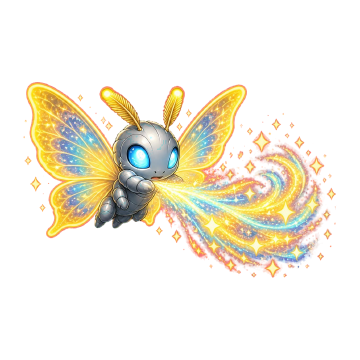
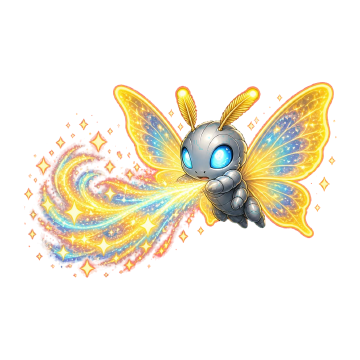
fix(assets): flip monster attack art toward hero

diff --git a/index.html b/index.html
@@ -1782,18 +1782,19 @@ function bindMonImg(img){
    already face image-right, so they are not mirrored.
    Mirror a monster frame only when the source art faces right. One scaleX(-1)
    in battle only — never in the dex, and never a second flip.
-   Attack, faces right: lavaover, thundwolf, mtngod, manflower, illusdemon, seaking, sandwyrm, starlord.
-   Attack, already left: heidragon, holyturt, deathscorp, ninjacat, steeltiran, icetiran, phoenix, nightmare, galmoth, flamecrab.
-   Idle, faces right: deathscorp, thundwolf, mtngod, manflower, illusdemon, seaking, sandwyrm, starlord.
-   Idle, already left: heidragon, lavaover, holyturt, ninjacat, steeltiran, icetiran, phoenix, nightmare, galmoth, flamecrab. */
+   Attack, faces right: lavaover, thundwolf, mtngod, starlord, deathscorp, flamecrab, galmoth, holyturt, icetiran, nightmare, ninjacat.
+   Attack, already left: manflower, illusdemon, seaking, sandwyrm.
+   Idle, faces right: deathscorp, thundwolf, mtngod, manflower, seaking, sandwyrm, starlord.
+   Idle, already left: heidragon, lavaover, holyturt, ninjacat, steeltiran, icetiran, phoenix, nightmare, galmoth, flamecrab, illusdemon. */
 const ATTACK_MIRROR = {
-  lavaover:1, thundwolf:1, mtngod:1, manflower:1,
-  illusdemon:1, seaking:1, sandwyrm:1, starlord:1
+  lavaover:1, thundwolf:1, mtngod:1, starlord:1,
+  deathscorp:1, flamecrab:1, galmoth:1, holyturt:1,
+  icetiran:1, nightmare:1, ninjacat:1
 };
 /* Idle portraits that face image-right. Same rule: one flip in battle, never in the dex. */
 const IDLE_MIRROR = {
   deathscorp:1, thundwolf:1, mtngod:1, manflower:1,
-  illusdemon:1, seaking:1, sandwyrm:1, starlord:1
+  seaking:1, sandwyrm:1, starlord:1
 };
 /* Empty canvas under the attack-frame feet, as a percent of the image. Drops them onto the ground line. */
 const ATTACK_FOOT = {
@@ -2958,10 +2959,10 @@ function runSelfTest(){
   });
   if(MONS.deathscorp.name!=='死神蠍') fails.push('deathscorp name');
   if(MONS.sandwyrm.name!=='黃泉魔龍') fails.push('sandwyrm name');
-  ['heidragon','holyturt','deathscorp','ninjacat','steeltiran','icetiran','phoenix','nightmare','galmoth','flamecrab'].forEach(function(id){ if(ATTACK_MIRROR[id]) fails.push('double flip atk '+id); });
-  ['lavaover','thundwolf','mtngod','manflower','illusdemon','seaking','sandwyrm','starlord'].forEach(function(id){ if(!ATTACK_MIRROR[id]) fails.push('need mirror atk '+id); });
-  ['heidragon','lavaover','holyturt','ninjacat','steeltiran','icetiran','phoenix','nightmare','galmoth','flamecrab'].forEach(function(id){ if(IDLE_MIRROR[id]) fails.push('double flip idle '+id); });
-  ['deathscorp','thundwolf','mtngod','manflower','illusdemon','seaking','sandwyrm','starlord'].forEach(function(id){ if(!IDLE_MIRROR[id]) fails.push('need mirror idle '+id); });
+  ['heidragon','steeltiran','phoenix'].forEach(function(id){ if(ATTACK_MIRROR[id]) fails.push('double flip atk '+id); });
+  ['lavaover','thundwolf','mtngod','starlord','deathscorp','flamecrab','galmoth','holyturt','icetiran','nightmare','ninjacat'].forEach(function(id){ if(!ATTACK_MIRROR[id]) fails.push('need mirror atk '+id); });
+  ['heidragon','lavaover','holyturt','ninjacat','steeltiran','icetiran','phoenix','nightmare','galmoth','flamecrab','illusdemon'].forEach(function(id){ if(IDLE_MIRROR[id]) fails.push('double flip idle '+id); });
+  ['deathscorp','thundwolf','mtngod','manflower','seaking','sandwyrm','starlord'].forEach(function(id){ if(!IDLE_MIRROR[id]) fails.push('need mirror idle '+id); });
   [1,2,3].forEach(function(star){
     const divs=divisionDivisors(star);
     if(star===1 && divs.join(',')!=='2,5,10') fails.push('star1');
@@ -3010,7 +3011,7 @@ function runSelfTest(){
     const sc=ATTACK_SCALE[id];
     if(!(sc>=1 && sc<=1.65)) fails.push('scale '+id);
   });
-  if(ATTACK_MIRROR.heidragon||ATTACK_MIRROR.phoenix||ATTACK_MIRROR.icetiran||ATTACK_MIRROR.steeltiran||ATTACK_MIRROR.deathscorp) fails.push('double flip');
+  if(ATTACK_MIRROR.heidragon||ATTACK_MIRROR.phoenix||ATTACK_MIRROR.steeltiran) fails.push('double flip');
   if(IDLE_MIRROR.heidragon||IDLE_MIRROR.lavaover||IDLE_MIRROR.phoenix) fails.push('double flip idle');
   const pair=dexPairHTML('heidragon');
   if(/立繪|出招|<figcaption/.test(pair)) fails.push('dex caption');

diff --git a/src/game.js b/src/game.js
@@ -271,13 +271,14 @@ function bindMonImg(img){
    already face image-right, so they are not mirrored.
    Mirror a monster frame only when the source art faces right. One scaleX(-1)
    in battle only — never in the dex, and never a second flip.
-   Attack, faces right: lavaover, thundwolf, mtngod, manflower, illusdemon, seaking, sandwyrm, starlord.
-   Attack, already left: heidragon, holyturt, deathscorp, ninjacat, steeltiran, icetiran, phoenix, nightmare, galmoth, flamecrab.
+   Attack, faces right: lavaover, thundwolf, mtngod, starlord, deathscorp, flamecrab, galmoth, holyturt, icetiran, nightmare, ninjacat.
+   Attack, already left: manflower, illusdemon, seaking, sandwyrm.
    Idle, faces right: deathscorp, thundwolf, mtngod, manflower, seaking, sandwyrm, starlord.
    Idle, already left: heidragon, lavaover, holyturt, ninjacat, steeltiran, icetiran, phoenix, nightmare, galmoth, flamecrab, illusdemon. */
 const ATTACK_MIRROR = {
-  lavaover:1, thundwolf:1, mtngod:1, manflower:1,
-  illusdemon:1, seaking:1, sandwyrm:1, starlord:1
+  lavaover:1, thundwolf:1, mtngod:1, starlord:1,
+  deathscorp:1, flamecrab:1, galmoth:1, holyturt:1,
+  icetiran:1, nightmare:1, ninjacat:1
 };
 /* Idle portraits that face image-right. Same rule: one flip in battle, never in the dex. */
 const IDLE_MIRROR = {
@@ -1447,8 +1448,8 @@ function runSelfTest(){
   });
   if(MONS.deathscorp.name!=='死神蠍') fails.push('deathscorp name');
   if(MONS.sandwyrm.name!=='黃泉魔龍') fails.push('sandwyrm name');
-  ['heidragon','holyturt','deathscorp','ninjacat','steeltiran','icetiran','phoenix','nightmare','galmoth','flamecrab'].forEach(function(id){ if(ATTACK_MIRROR[id]) fails.push('double flip atk '+id); });
-  ['lavaover','thundwolf','mtngod','manflower','illusdemon','seaking','sandwyrm','starlord'].forEach(function(id){ if(!ATTACK_MIRROR[id]) fails.push('need mirror atk '+id); });
+  ['heidragon','steeltiran','phoenix'].forEach(function(id){ if(ATTACK_MIRROR[id]) fails.push('double flip atk '+id); });
+  ['lavaover','thundwolf','mtngod','starlord','deathscorp','flamecrab','galmoth','holyturt','icetiran','nightmare','ninjacat'].forEach(function(id){ if(!ATTACK_MIRROR[id]) fails.push('need mirror atk '+id); });
   ['heidragon','lavaover','holyturt','ninjacat','steeltiran','icetiran','phoenix','nightmare','galmoth','flamecrab','illusdemon'].forEach(function(id){ if(IDLE_MIRROR[id]) fails.push('double flip idle '+id); });
   ['deathscorp','thundwolf','mtngod','manflower','seaking','sandwyrm','starlord'].forEach(function(id){ if(!IDLE_MIRROR[id]) fails.push('need mirror idle '+id); });
   [1,2,3].forEach(function(star){
@@ -1499,7 +1500,7 @@ function runSelfTest(){
     const sc=ATTACK_SCALE[id];
     if(!(sc>=1 && sc<=1.65)) fails.push('scale '+id);
   });
-  if(ATTACK_MIRROR.heidragon||ATTACK_MIRROR.phoenix||ATTACK_MIRROR.icetiran||ATTACK_MIRROR.steeltiran||ATTACK_MIRROR.deathscorp) fails.push('double flip');
+  if(ATTACK_MIRROR.heidragon||ATTACK_MIRROR.phoenix||ATTACK_MIRROR.steeltiran) fails.push('double flip');
   if(IDLE_MIRROR.heidragon||IDLE_MIRROR.lavaover||IDLE_MIRROR.phoenix) fails.push('double flip idle');
   const pair=dexPairHTML('heidragon');
   if(/立繪|出招|<figcaption/.test(pair)) fails.push('dex caption');
